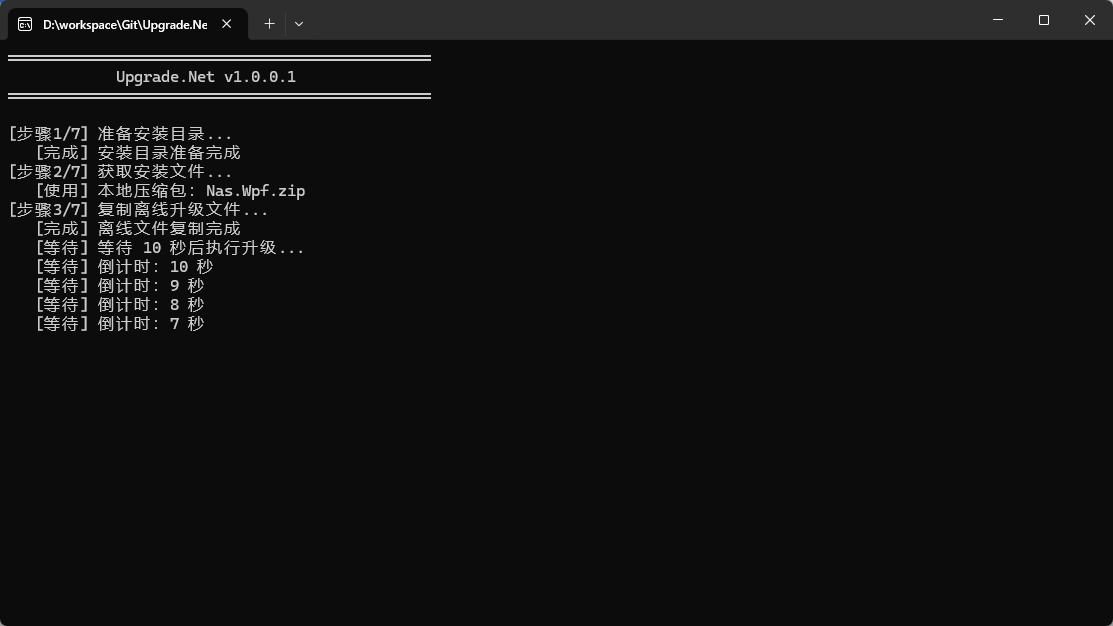
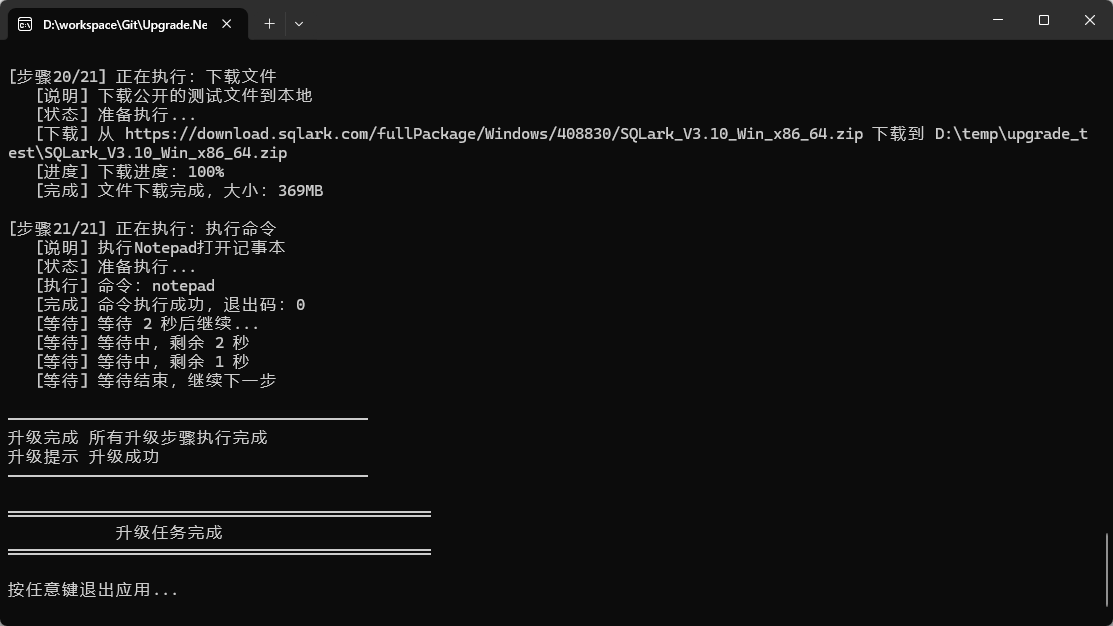
说明文档更新。

Changed region(s): [[0.0, 0.0607, 0.9775, 0.6374], [0.0, 0.6677, 0.3666, 0.9712]]

diff --git a/README.en.md b/README.en.md
@@ -24,8 +24,12 @@ Upgrade.Net is a lightweight Windows application upgrade solution that supports 
 
 | Version | Screenshot |
 |---------|------------|
-| WPF Version | ![WPF Update Interface](screenshots/wpf_step_8.png) |
-| Console Version | ![Console Update Interface](screenshots/cmd_step_8.png) |
+| WPF Version | ![WPF Start Interface](screenshots/wpf_step_0.png) |
+| WPF Version | ![WPF Upgrade Interface](screenshots/wpf_step_1.png) |
+| WPF Version | ![WPF Complete Interface](screenshots/wpf_step_3.png) |
+| Console Version | ![Console Start Interface](screenshots/cmd_step_0.png) |
+| Console Version | ![Console Upgrade Interface](screenshots/cmd_step_1.png) |
+| Console Version | ![Console Complete Interface](screenshots/cmd_step_3.png) |
 
 ## Software Architecture
 